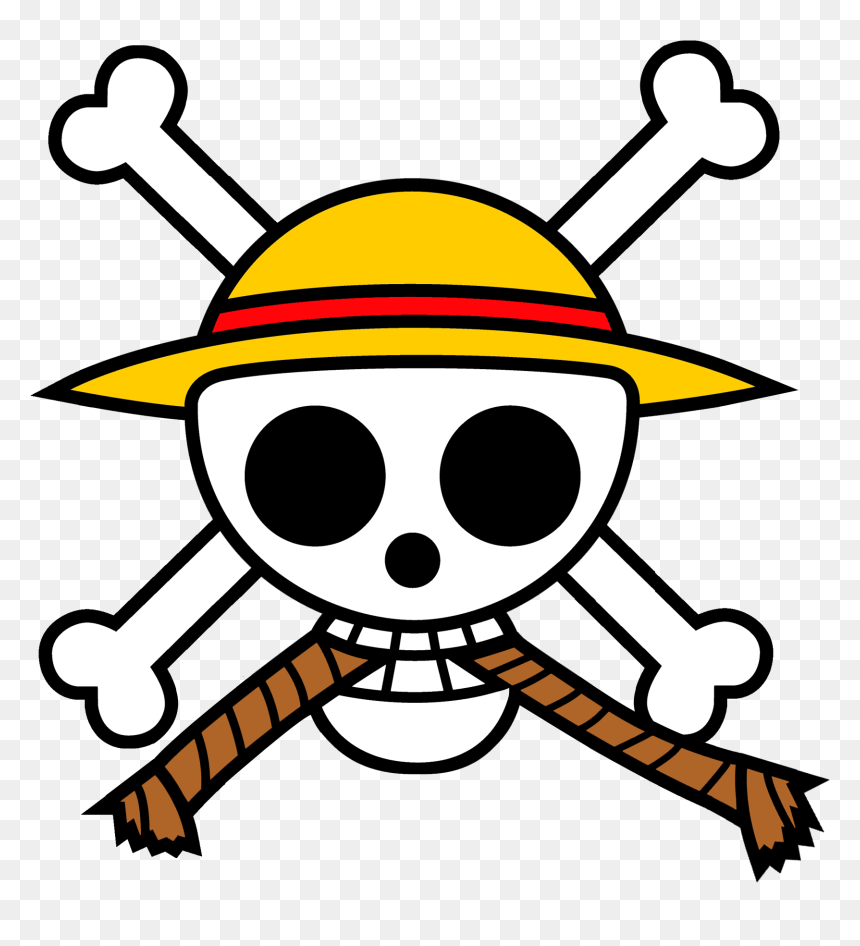
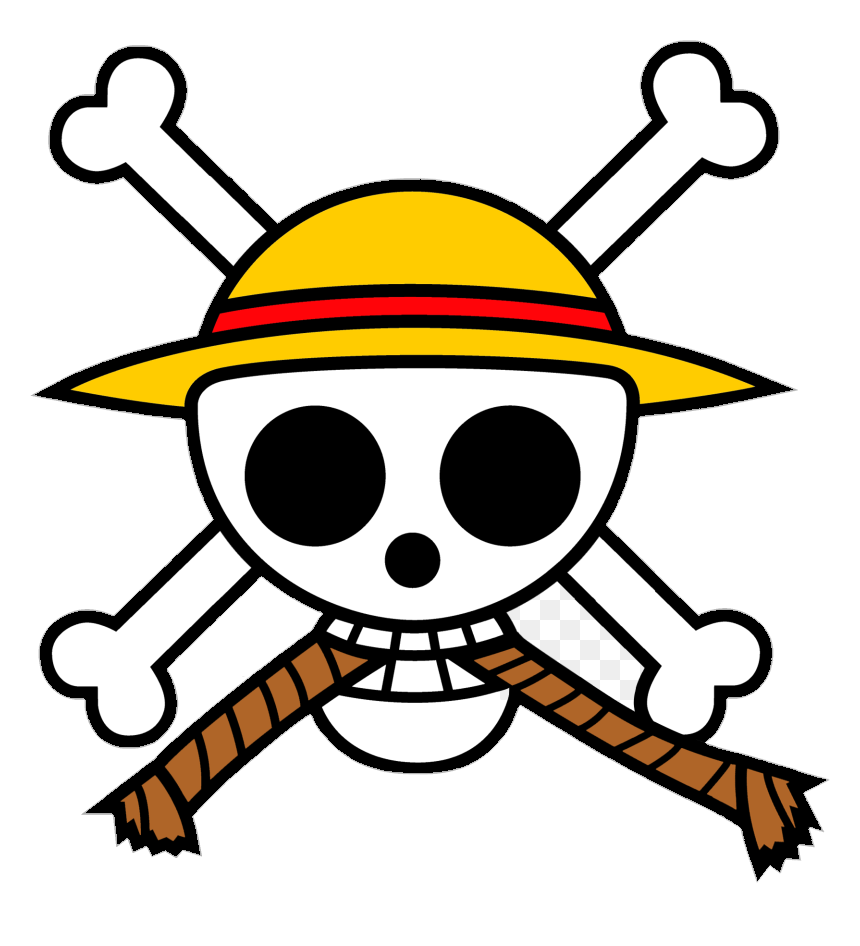
deploy: QuizHero v7.3.0

Changed region(s): [[0.9372, 0.8584, 0.9674, 0.889], [0.907, 0.889, 0.9372, 0.9197], [0.1209, 0.8584, 0.1512, 0.889]]

diff --git a/css/style.css b/css/style.css
@@ -167,7 +167,7 @@ body::after {
 
 /* Cat pattern overlay */
 body.theme-pattern-paws::after {
-  opacity: 0.18;
+  opacity: 0.85;
   background-image: url("../icons/cat-paws.svg"), url("../icons/cat-tile.png");
   background-size: 380px 360px, 380px 360px;
   background-repeat: repeat, repeat;
@@ -221,7 +221,7 @@ body.theme-pattern-paws::after {
 
 /* Dragon Ball Z pattern overlay */
 body.theme-pattern-dbz::after {
-  opacity: 0.18;
+  opacity: 0.85;
   background-image: url("../icons/dbz-aura.svg"), url("../icons/dbz-tile.png");
   background-size: 420px 380px, 420px 380px;
   background-repeat: repeat, repeat;
@@ -298,7 +298,7 @@ body.theme-pattern-dbz::after {
 
 /* Splatoon pattern overlay */
 body.theme-pattern-splatoon::after {
-  opacity: 0.18;
+  opacity: 0.85;
   background-image: url("../icons/splatoon-splats.svg"), url("../icons/splatoon-tile.png");
   background-size: 420px 380px, 420px 380px;
   background-repeat: repeat, repeat;
@@ -352,9 +352,9 @@ body.theme-pattern-splatoon::after {
 
 /* One Piece pattern overlay */
 body.theme-pattern-onepiece::after {
-  opacity: 0.18;
-  background-image: url("../icons/onepiece-nautical.svg"), url("../icons/mugiwara.png");
-  background-size: 340px 340px, 140px;
+  opacity: 0.85;
+  background-image: url("../icons/onepiece-nautical.svg"), url("../icons/onepiece-tile.png");
+  background-size: 340px 340px, 420px 380px;
   background-repeat: repeat, repeat;
 }
 
@@ -1920,13 +1920,7 @@ h2 {
 
 /* --- Responsive --- */
 @media (max-width: 480px) {
-  /* Boost theme pattern visibility on mobile */
-  body.theme-pattern-paws::after,
-  body.theme-pattern-dbz::after,
-  body.theme-pattern-splatoon::after,
-  body.theme-pattern-onepiece::after {
-    opacity: 0.24;
-  }
+  /* Theme pattern on mobile — already at full opacity */
 
   body {
     padding: 16px 10px;

diff --git a/js/themes.js b/js/themes.js
@@ -461,6 +461,11 @@ function applyPalette(paletteId, fallbackVars) {
   for (const [prop, value] of Object.entries(vars)) {
     root.setProperty(prop, value);
   }
+
+  // Detect light palettes for pattern blend mode switch
+  const LIGHT_PALETTES = ['arctique', 'bonbon'];
+  const isLight = paletteId && LIGHT_PALETTES.includes(paletteId);
+  document.body.classList.toggle('palette-light', isLight);
 }
 
 /**

diff --git a/sw.js b/sw.js
@@ -1,4 +1,4 @@
-const CACHE_NAME = 'quizhero-v713';
+const CACHE_NAME = 'quizhero-v714';
 const ASSETS = [
   './',
   './index.html',
@@ -18,6 +18,7 @@ const ASSETS = [
   './icons/icon-192x192.png',
   './icons/icon-512x512.png',
   './icons/mugiwara.png',
+  './icons/onepiece-tile.png',
   './icons/onepiece-nautical.svg',
   './icons/splatoon-tile.png',
   './icons/splatoon-splats.svg',

diff --git a/js/app.js b/js/app.js
@@ -1,6 +1,6 @@
 /* QuizHero V2 — App Logic (profile-aware) */
 
-const APP_VERSION = '7.2.7';
+const APP_VERSION = '7.3.0';
 
 // ── Theme Helpers ───────────────────────────────────────────────
 function isCatTheme() {
